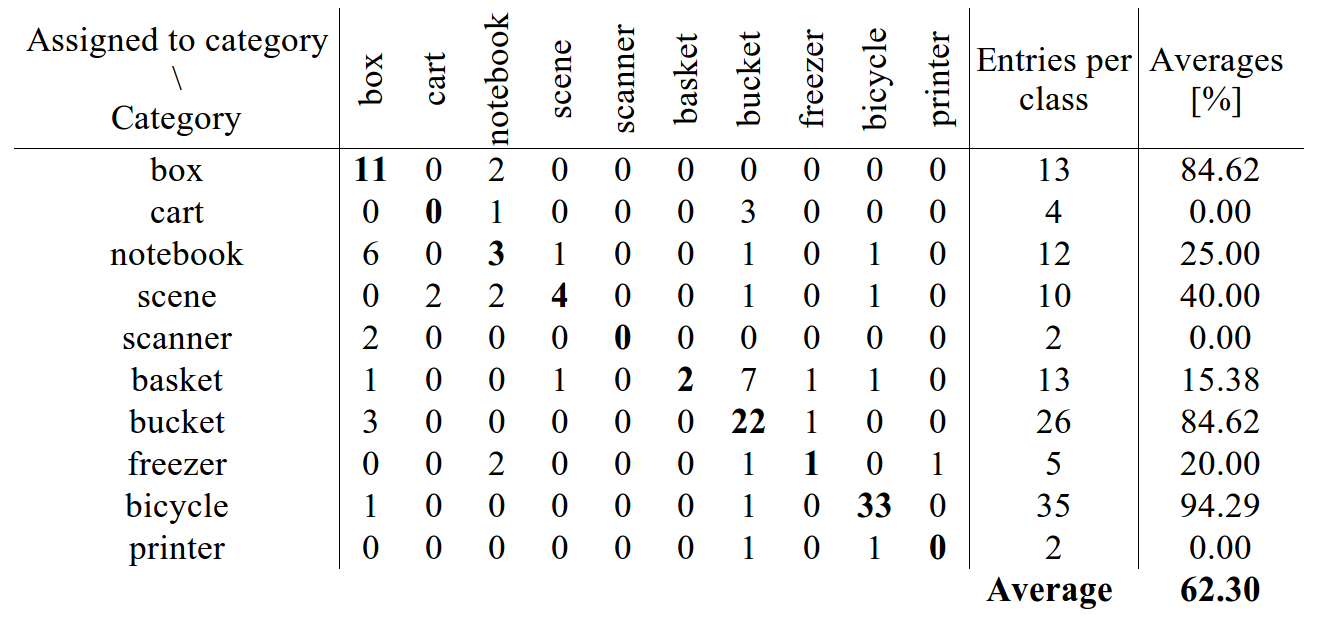
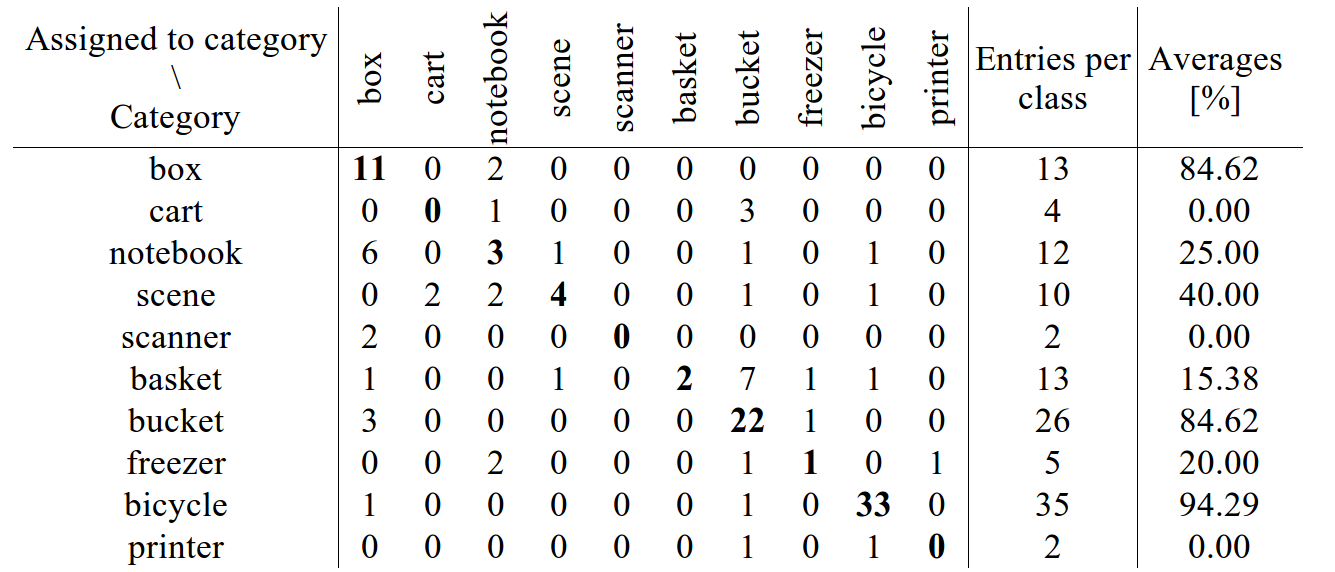
kkr

diff --git a/docs/kkr13/kkr13-eng.tex b/docs/kkr13/kkr13-eng.tex
@@ -181,7 +181,7 @@
 
 \section{ DATASETS }
 
-  Datasets are essential for the two following reasons: (1) Supervised learning algorithms have ravenous apetite for labelled data. Open database of labelled RGBD images would a great help in evaluation of algorithms. (2) If any comparison of algorithms is to be meaningful it should be performed on the same data. There is a multitude of RGB datasets available: ImageNet\footnote{\url{http://www.image-net.org/}}, PascalVoc\footnote{\url{http://pascallin.ecs.soton.ac.uk/challenges/VOC/}}, LabelMe\footnote{\url{http://labelme.csail.mit.edu/Release3.0/browserTools/php/dataset.php}} and SUN\footnote{\url{http://groups.csail.mit.edu/vision/SUN/}} among others. Unfortunately, they do not contain any depth information and cannot be used for the purpose of object classification based on RGBD data. On the other hand, the vast majority of RGBD datasets are focused on tracking or instance-level recognition, have insufficient number of examples per category or have too few categories. Author managed to find only two datasets suited to his needs. They are: the Berkeley 3D Object (B3DO) dataset \cite{B3DO} and a dataset compiled by Zhang \emph{et al} at the University of Tokyo\cite{zhangcategory}. The latter will be abbreviated Tokyo dataset from now on.
+  Datasets are essential for the following reasons: (1) Supervised learning algorithms have ravenous apetite for labelled data. An open database of labelled RGBD images would be of a great help in evaluation of algorithms. (2) If any comparison of algorithms is to be meaningful it should be performed on the same data. There is a multitude of RGB datasets available: ImageNet\footnote{\url{http://www.image-net.org/}}, PascalVoc\footnote{\url{http://pascallin.ecs.soton.ac.uk/challenges/VOC/}}, LabelMe\footnote{\url{http://labelme.csail.mit.edu/Release3.0/browserTools/php/dataset.php}} and SUN\footnote{\url{http://groups.csail.mit.edu/vision/SUN/}}, among others. Unfortunately, they do not contain any depth information and cannot be used for the purpose of object classification based on RGBD data. On the other hand, the vast majority of RGBD datasets are focused on tracking or instance-level recognition, have insufficient number of examples per category or have too few categories. Author managed to find only two datasets suited to his needs. They are: the Berkeley 3D Object (B3DO) dataset \cite{B3DO} and a dataset compiled by Zhang \emph{et al} at the University of Tokyo\cite{zhangcategory}. The latter will be abbreviated Tokyo dataset from now on.
 
   \subsection{Berkeley 3D Object Dataset}
     \begin{figure}[!ht]
@@ -191,7 +191,7 @@
     \label{fig:b3do_objects}
     \end{figure}    
     
-    The Berkeley 3D Object dataset, shown in \refFig{fig:b3do_objects} was specifically designed for the purpose of object detection and classification. It consists of cluttered images in indoor environment, with many labelled and random objects per image. The images are often poorly lit and objects are partially occluded. There are around 50 classes with more than 20 examples in each of them. RGBD data are provided as pairs of colour images (8 bit RGB jpeg files) and depth maps (16 bit png files). Images are densely labelled --- for every pair of images there is an xml file with annotations. Each annotation states a category of an object as well as it's bounding box location. Since neigher image segmentation nor object detection is addressed in this paper we had to extract objects from the images before the dataset could be used.
+    The Berkeley 3D Object dataset, shown in \refFig{fig:b3do_objects}, was specifically designed for the purpose of object detection and classification. It consists of cluttered images in indoor environment, with many labelled and random objects per image. The images are often poorly lit and objects are partially occluded. There are around 50 classes with more than 20 examples in each of them. RGBD data are provided as pairs of colour images (8 bit RGB jpeg files) and depth maps (16 bit png files). Images are densely labelled --- for every pair of images there is an xml file with annotations. Each annotation states a category of an object as well as it's bounding box location. Since neigher image segmentation nor object detection is addressed in this paper we had to extract objects from the images before the dataset could be used.
 
   \subsection{The University of Tokyo Dataset}	
     \begin{figure}[!ht]
@@ -201,20 +201,18 @@
     \label{fig:tokyo}
     \end{figure}
 
-    The Tokyo dataset, shown in \refFig{fig:tokyo} is comprised of high quality images of single labelled objects in different settings, with changing viewpoint, object orientation and texture. Additional unlabelled object can be present, however, and should not be taken into account. No bounding boxes are given, which renders the classification task similar to the scene classification problem. The dataset is presented as colour images (8 bit RGB jpeg files) and depth maps (csv files with XYZ coordinates of each pixel). This dataset is aimed at the task of object classification in casual images.
+    The Tokyo dataset, shown in \refFig{fig:tokyo}, is comprised of high quality images of single labelled objects in different settings, with changing viewpoint, object orientation and texture. Additional unlabelled object can be present, however, and should not be taken into account. No bounding boxes are given, which renders the classification task similar to the scene classification problem. The dataset is presented as colour images (8 bit RGB jpeg files) and depth maps (csv files with XYZ coordinates of each pixel). This dataset is aimed at the task of object classification in casual images.
 
 \section{ EXPERIMENTS }
-  There is a plenty of algorithms suitable for any of the four steps of Bag of Words image processing. Most of them have multiple tunable parameters and their performance might be interdependant on each other. Comprehensive evaluation would be required to select an optimal combination. Even if we consider only the PointCloud Library\footnote{\url{http://pointclouds.org/}}, we would have far too many options with 12 keypoint detectors and more than 20 feature descriptors. A literature review helped to narrow the scope of evaluation considerably. All experiments were run on a notebook with Intel Core i7 quad core 2.2 GHz CPU, 8 GB of RAM and a nVidia M540 GPU. 
+  There is a plenty of algorithms suitable for any of the four steps of Bag of Words image processing. Most of them have multiple tunable parameters and their performance might be interdependant on each other. Comprehensive evaluation is inevitable if an optimal combination is to be selected. Considering the PointCloud Library\footnote{\url{http://pointclouds.org/}} (PCL) alone yields far too many options to test, with 12 keypoint detectors and more than 20 feature descriptors. A literature review helped to narrow the scope of evaluation considerably. All experiments were run on a notebook with Intel Core i7 quad core 2.2 GHz CPU, 8 GB of RAM and a nVidia M540 GPU. 
 
   \subsection{Detectors and descriptors}
-    Keypoint detection algorithms have been compared with respect to repeatability, invariance in \cite{pcl_keypoint_comparision} and in terms of object retrieval and recognition in \cite{3d_keypoint_eval}. 3D-SIFT and ISS achieve the highest robustness for invariance, while the latter appears to be the best choice for object retrieval. Dense detector (or uniform sampling) achieved the best performance in 2D image classification \cite{tsai2012bag}. Therefore, this paper compares SIFT, ISS and Uniform Sampling keypoint detection techniques. 
-
-    PCL descriptors have been evaluated in terms of object retrieval performance in \cite{pcl_features}. PFHRGB and SHOTCOLOR delivered the best performance, while their simpler counterparts (PFH, FPFH, SHOT) were only a little worse. USC, which is a global descriptor and thus not suitable for the Bag of Words approach, achieved very similar accuracy. We focus on the family of PFH algorithms.
+    Keypoint detection algorithms were compared with respect to repeatability, invariance in \cite{pcl_keypoint_comparision} and in terms of object retrieval and recognition in \cite{3d_keypoint_eval}. 3D-SIFT and ISS both achieve the highest robustness, while the latter appears to be the best choice for object retrieval. Dense detector (or uniform sampling) achieves the best performance in 2D image classification \cite{tsai2012bag}. Therefore, this paper compares SIFT, ISS and Uniform Sampling keypoint detection techniques. Additionaly, PCL descriptors were evaluated in terms of performance in object retrieval in \cite{pcl_features}. PFHRGB and SHOTCOLOR delivered the best results, while their simpler counterparts (PFH, FPFH, SHOT) were only a little worse. USC, which is a global descriptor and thus not suitable for the Bag of Words approach, achieved very similar accuracy. The family of PFH descriptors is evaluated in this paper.
     
     \begin{table}[!hbtp]
     \centering
       \caption{Highest accuracy obtained with FPFH, PFH and PFHRGB descriptors on the B3DO dataset}
-      \label{tab-example}
+      \label{tab:desc_b3do}
      \begin{tabular}{*4c}
      \toprule
        Detector & ISS3D & SIFT & Uniform Sampling  \\ 
@@ -228,10 +226,10 @@
     \end{tabular}
     \end{table}
 
-    The best results achieved are shown in the figure \ref{tab:desc_b3do}. They were scored on the B3DO dataset. As for the detection algorithms, the ISS provided consistently the highest accuracy. The SIFT and Uniform Sampling provide very similar accuracy, but the latter is significantly faster. SIFT is in fact slowest of the three. As for the descriptors, the FPFH delivered the best performance even though it is an approximate and theoretically the least precise algorithm. It is also the fastest of the three. It appears that the combination of ISS and FPFH is not only surprisingly good in terms of accuracy, but it is also the fastest. These two algorithms allow near real time point-cloud processing and classification. PFHRGB and SIFT are several times slower.
+    The best results of each detector/descriptor combination on the B3DO dataset are shown in table \ref{tab:desc_b3do}. ISS consistently proved to be the most successful detection algorithm in this setting. SIFT and Uniform Sampling scored similar accuracy but the latter is significantly faster. SIFT is in fact the slowest of the three. As for the descriptors, FPFH delivered the best performance even though it is an approximate and theoretically the least precise algorithm. It is also the fastest of the three. It appears that the combination of ISS and FPFH is not only surprisingly good in terms of accuracy; it is also the fastest. These two algorithms allow near real time point-cloud processing and classification. PFHRGB and SIFT are several times slower.
       
   \subsection{Codebook}
-    KMeans is used in almost every implementation of the Bag of Words image processing pipeline \cite{tsai2012bag, toldo2009bag}. Csurka \emph{et al} showed that the number of visual words has a significant impact on the final results \cite{csurka2004visual}. We run a number of tests to discover an optimal codebook size for our setting.
+    KMeans is used in almost every implementation of the Bag of Words image processing pipeline \cite{tsai2012bag, toldo2009bag}. Csurka \emph{et al} showed that the number of visual words has a significant impact on the final results \cite{csurka2004visual}. A number of tests were run to discover an optimal codebook size for the current setting.
 
     \begin{figure}[!ht]
     \centering	
@@ -240,40 +238,40 @@
     \label{fig:cluster_b3do}
     \end{figure}
 
-    The results from the figure \ref{fig:cluster_b3do} partially confirm Csurka's findings. The performance raises with the increasing number of centroids up to the point of 1500 centroids and 65.22\%. The discrepancies might be caused by the following factors: (1) ISS detector finds too many or irrelevant points, thus introducing noise or (2) The FPFH descriptor has too few dimensions (33) to be divided into more than 1500 regions in a meaningful way. 
+    The results from \refFig{fig:cluster_b3do} partially confirm Csurka's findings. The performance raises with the increasing number of centroids up to the point of 1500 centroids and 65.22\%. The discrepancies might be caused by the following factors: (1) ISS detector finds too many or irrelevant points, thus introducing noise or (2) The FPFH descriptor has too few dimensions (33) to be divided into more than 1500 regions in a meaningful way. 
 
 
   \subsection{B3DO}
-    The majority of the point clouds in the B3DO dataset contain several different objects. We have extracted every individual object from the clouds and divided them into 78 separate categories. Unfortunately, they were badly balanced \emph{i.e.} the number of objects in a category varies from 1 (tape) to 299 (table). We have picked 8 categories at random with a restriction that there should be at least 50 object instances in a category. Then, the objects were split into two sets (training and testing) with a proportion of 1:1. As the names suggest, they are used for estimation and evaluation respectively.
+    Extracting objects from the B3DO datasets yielded far too many and unbalanced categories. Nnumber of objects in a category varies from 1 (tape) to 299 (table). 8 categories were picked at random with a restriction that there should be at least 50 object instances in a category. Then, the objects were split into train and test set with a proportion of 1:1. They were used for estimation and evaluation respectively.
 
-    The highest accuracy achieved for this dataset is 64\%. Table \ref{tab:b3do_conf_matrix} contains a confusion matrix, number of examples per category and accuracy. The confusion matrix depicts classification errors. Let m\subscript{i, j} be an element of the confusion matrix at the i\superscript{th} row and j\superscript{th} column. It shows how many elements from the i\superscript{th} category was assigned to the j\superscript{th} category. A high value of m\subscript{i, j} such that $i \neq j$ indicates that the classifier cannot distinguish between those two classes.
+    The highest accuracy achieved for this dataset is 65.22\%. Table \ref{tab:b3do_conf_matrix} contains a confusion matrix, number of examples per category and accuracy. The confusion matrix depicts classification errors. Let m\subscript{i, j} be an element of the confusion matrix at the i\superscript{th} row and j\superscript{th} column. It shows how many elements from the i\superscript{th} category was assigned to the j\superscript{th} category. A high value of m\subscript{i, j} such that $i \neq j$ indicates that the classifier cannot distinguish those two classes.
 
     \begin{table}[!ht]
     \centering
-    \caption{Results on the B3DO dataset with ISS keypoint detector, FPFH features and a dictionary of 1500 words. \textbf{Overall accuracy is 65.22\%}}
+    \caption{Results on the B3DO dataset with ISS keypoint detector, FPFH features and a dictionary of 1500 words; \textbf{Average accuracy: 65.22\%}}
     \includegraphics[width=0.9\textwidth]{../figs/b3do_conf_matrix}	
     \label{tab:b3do_conf_matrix}
-    \end{table}
-
-   
+    \end{table}   
 
     More than half of the bottles were assigned to the cup category and keyboards were often mistook for books. These two error types are easily explained by a high degree of similarity of objects (bottles and cups are usually round and tall, books and keyboards are flat and rectangular) Surprisingly, however, objects from half of the categories were frequently marked as cups. Some of these misclassification errors might be caused by very poor quality of images. Many of them are occluded poorly lit low resolution images.	
 
   \subsection{Tokyo}
     \begin{table}[!ht]
     \centering
-    \caption{Tokyo confusion matrix with ISS keypoint detector, PFH features and a dictionary of 3000 words}
-    \includegraphics[width=0.9\textwidth]{../figs/tokyo_conf_matrix}	
+    \caption{Results on the Tokyo dataset with ISS keypoint detector, PFH features and a dictionary of 3000 words; \textbf{Average accuracy: 62.30\%}}
+    \includegraphics[width=1\textwidth]{../figs/tokyo_conf_matrix}	
     \label{tab:tokyo_conf_matrix}
     \end{table}
 
-    Every of the 343 images from Tokyo dataset was used. Data was split into test and train set in proportions 1:2 in order to provide more training examples due to low number of objects in some classes.
-
-    Even tough the overall accuracy achieved on Tokyo dataset is similar in value to that of the B3DO, the structure of the result is very different. It is clearly visible that there is a strong correlation between a per class accuracy and the number of entries in this class. The highest performance in the bicycle category is coupled with the largest number of entries. On the other end of the scale there are cart and printer categories with only 2 and 4 entries respectively. On top of that there are differences between some classes are marginal. The majority of carts and baskets were put into the bucket category. It does not surprise, for they are simply akin as can be seen in figure \ref{fig:tokyo} on the page \pageref{fig:tokyo}.
+    Every of the 343 images from Tokyo dataset were used. Data was split into test and train set in proportions 1:2 in order to provide more training examples due to low number of objects in some classes. Even tough the overall accuracy achieved on the Tokyo dataset is similar in value to that of the B3DO, the structure of the result is very different. It is clearly visible that there is a strong correlation between a per class accuracy and the number of entries in this class. The highest performance in the bicycle category is coupled with the largest number of entries. On the other end of the scale there are cart and printer categories with only 2 and 4 entries respectively. On top of that, differences between some classes are marginal. The majority of carts and baskets were put into the bucket category. It does not surprise, for they are simply akin as can be seen in \refFig{fig:tokyo}.
 
 \section{ CONCLUSION }
 
-  In this paper we have tackled the issue of three dimensional point cloud classification with a bag of words-based approach. The main focus was put on the design and efficient implementation of the pipeline in a way that allows easy addition of algorithms and switching them at run-time. What is more, we have gone to great lengths in order to find scientific databases that are suitable for the task of point cloud classification. We believe that the presence of such databases is fundamental, for it allows meaningful comparison with other researchers. We have experienced the following problems: Firstly, point cloud processing is computationally expensive and inefficient. Due to the lack of structure in point clouds (\textit{i.e.} no predefined relationship between points) additional calculations have to be performed (\textit{e.g.} finding nearest neighbours requires distance comparison for all points in a cloud, whereas for a 2D image one instantly knows where adjacent pixels lie). Secondly, there are virtually no databases that would allow extensive training of the bag of words-based pipeline. Machine learning algorithms have ravenous appetite for labelled data. As the newest findings in the state-of-the-art 2D object classification suggest, an order of tens of thousands of samples is a prerequisite for any satisfactory results We had to make do with as few as 330 objects in our training set. Moreover, there is very little interest in the scientific community for this particular task. The majority of research is conducted on retrieval of CAD-like objects from mesh databases. Last, but not least, there is no 3D detection or description algorithm designed solely for the purpose of bag of words object classification.
+  In this paper we have tackled the issue of three dimensional point cloud classification with a bag of words-based approach. 
+  
+  The main focus was put on the design and efficient implementation of the pipeline in a way that allows easy addition of algorithms and switching them at run-time.
+  
+  What is more, we have gone to great lengths in order to find scientific databases that are suitable for the task of point cloud classification. We believe that the presence of such databases is fundamental, for it allows meaningful comparison with other researchers. We have experienced the following problems: Firstly, point cloud processing is computationally expensive and inefficient. Due to the lack of structure in point clouds (\textit{i.e.} no predefined relationship between points) additional calculations have to be performed (\textit{e.g.} finding nearest neighbours requires distance comparison for all points in a cloud, whereas for a 2D image one instantly knows where adjacent pixels lie). Secondly, there are virtually no databases that would allow extensive training of the bag of words-based pipeline. Machine learning algorithms have ravenous appetite for labelled data. As the newest findings in the state-of-the-art 2D object classification suggest, an order of tens of thousands of samples is a prerequisite for any satisfactory results We had to make do with as few as 330 objects in our training set. Moreover, there is very little interest in the scientific community for this particular task. The majority of research is conducted on retrieval of CAD-like objects from mesh databases. Last, but not least, there is no 3D detection or description algorithm designed solely for the purpose of bag of words object classification.
 
   In conclusion I would not recommend any bag-of-words based approach classification of real point clouds registered with a low quality camera such as Microsoft Kinect. Being computationally expensive and rather inefficient, it delivers inferior performance in terms of accuracy and speed when compared to 2D RGB image based algorithms. To makes matters worse, generalisation of 2D algorithms to the 3D domain can be very involved, causing the cutting-edge inventions of the 2D image processing scientists unavailable for the purpose of 3D point cloud processing.
 
